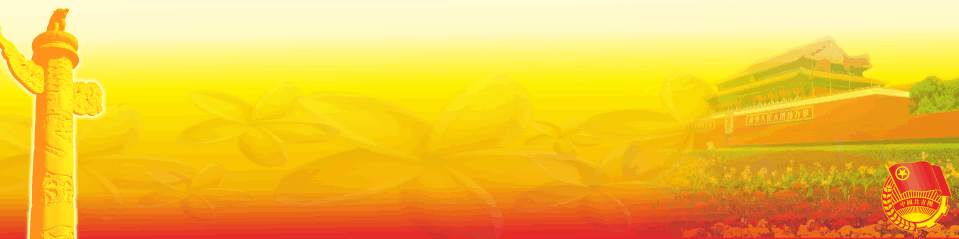
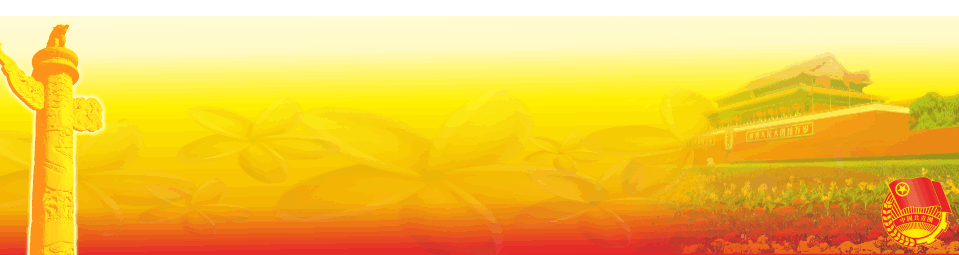
ok

diff --git a/www/templates/main/default.html b/www/templates/main/default.html
@@ -27,64 +27,67 @@
       </ion-slide> -->
     </ion-slide-box>
 
-    <div class="row no-padding">
-      <div class="col no-padding">
-        <a href="#" class="button center-block background-clear">
-          <img src="img/badge.png" alt="团徽" class="img-responsive center-block cell-img">
-          团青时讯
-        </a>
+    <div class="padding">
+      <div class="background-img"><img src="img/main_backimg_fade.png" alt="钱塘江" class="img-responsive center-block"></div>
+      <div class="row no-padding">
+        <div class="col no-padding">
+          <a href="#" class="button center-block background-clear">
+            <img src="img/badge.png" alt="团徽" class="img-responsive center-block cell-img">
+            团青时讯
+          </a>
+        </div>
+        <div class="col no-padding">
+          <a href="#" class="button center-block background-clear">
+            <img src="img/badge.png" alt="团徽" class="img-responsive center-block cell-img">
+            智汇共享
+          </a>
+        </div>
+        <div class="col no-padding">
+          <a href="#" class="button center-block background-clear">
+            <img src="img/badge.png" alt="团徽" class="img-responsive center-block cell-img">
+            智慧链接
+          </a>
+        </div>
       </div>
-      <div class="col no-padding">
-        <a href="#" class="button center-block background-clear">
-          <img src="img/badge.png" alt="团徽" class="img-responsive center-block cell-img">
-          智汇共享
-        </a>
+      <div class="row no-padding">
+        <div class="col no-padding">
+          <a href="#" class="button center-block background-clear">
+            <img src="img/badge.png" alt="团徽" class="img-responsive center-block cell-img">
+            一团一品
+          </a>
+        </div>
+        <div class="col no-padding">
+          <a href="#" class="button center-block background-clear">
+            <img src="img/badge.png" alt="团徽" class="img-responsive center-block cell-img">
+            青年创业
+          </a>
+        </div>
+        <div class="col no-padding">
+          <a href="#" class="button center-block background-clear">
+            <img src="img/badge.png" alt="团徽" class="img-responsive center-block cell-img">
+            智会相亲
+          </a>
+        </div>
       </div>
-      <div class="col no-padding">
-        <a href="#" class="button center-block background-clear">
-          <img src="img/badge.png" alt="团徽" class="img-responsive center-block cell-img">
-          智慧链接
-        </a>
-      </div>
-    </div>
-    <div class="row no-padding">
-      <div class="col no-padding">
-        <a href="#" class="button center-block background-clear">
-          <img src="img/badge.png" alt="团徽" class="img-responsive center-block cell-img">
-          一团一品
-        </a>
-      </div>
-      <div class="col no-padding">
-        <a href="#" class="button center-block background-clear">
-          <img src="img/badge.png" alt="团徽" class="img-responsive center-block cell-img">
-          青年创业
-        </a>
-      </div>
-      <div class="col no-padding">
-        <a href="#" class="button center-block background-clear">
-          <img src="img/badge.png" alt="团徽" class="img-responsive center-block cell-img">
-          智会相亲
-        </a>
-      </div>
-    </div>
-    <div class="row no-padding">
-      <div class="col no-padding">
-        <a href="#" class="button center-block background-clear">
-          <img src="img/badge.png" alt="团徽" class="img-responsive center-block cell-img">
-          最美浙江
-        </a>
-      </div>
-      <div class="col no-padding">
-        <a href="#" class="button center-block background-clear">
-          <img src="img/badge.png" alt="团徽" class="img-responsive center-block cell-img">
-          智惠生活
-        </a>
-      </div>
-      <div class="col no-padding">
-        <a href="#" class="button center-block background-clear">
-          <img src="img/badge.png" alt="团徽" class="img-responsive center-block cell-img">
-          系统管理
-        </a>
+      <div class="row no-padding">
+        <div class="col no-padding">
+          <a href="#" class="button center-block background-clear">
+            <img src="img/badge.png" alt="团徽" class="img-responsive center-block cell-img">
+            最美浙江
+          </a>
+        </div>
+        <div class="col no-padding">
+          <a href="#" class="button center-block background-clear">
+            <img src="img/badge.png" alt="团徽" class="img-responsive center-block cell-img">
+            智惠生活
+          </a>
+        </div>
+        <div class="col no-padding">
+          <a href="#" class="button center-block background-clear">
+            <img src="img/badge.png" alt="团徽" class="img-responsive center-block cell-img">
+            系统管理
+          </a>
+        </div>
       </div>
     </div>
 

diff --git a/www/css/app.css b/www/css/app.css
@@ -65,6 +65,13 @@
 	border-style: none;
 	box-shadow: none; 
 }
+.background-img {
+	position: absolute;
+    top: 5em;
+    left: 0;
+    right: 0;
+    z-index: -999;
+}
 .cell-img {
 	background-color: transparent;
 	max-width: 4em;
